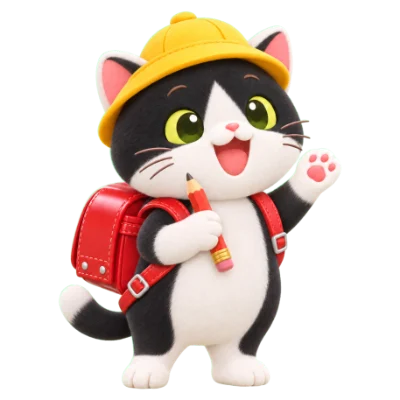
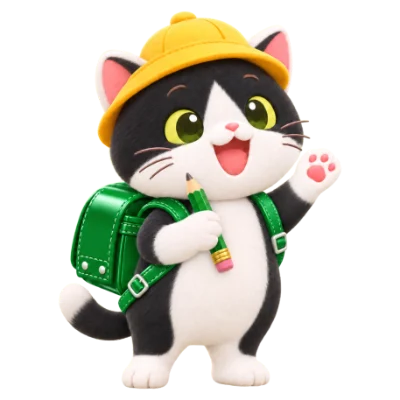
고양이 친구마다 란도셀 색과 표정·동작 4가지 (생각·정답·응원·축하)

diff --git a/sw.js b/sw.js
@@ -1,6 +1,6 @@
 // 오프라인용 서비스 워커: 앱 파일을 폰에 저장해 두고 인터넷 없이도 연다.
 // 인터넷이 될 때는 항상 새 파일을 받고, 그 사본을 저장해 둔다.
-const VERSION = 'v27'
+const VERSION = 'v28'
 const CACHE = `nihongo-${VERSION}`
 const FILES = [
   './',
@@ -37,6 +37,46 @@ const FILES = [
   './images/cat-maru.webp',
   './images/cat-sabi.webp',
   './images/cat-mofu.webp',
+  './images/cat-kuro-think.webp',
+  './images/cat-kuro-cheer.webp',
+  './images/cat-kuro-sad.webp',
+  './images/cat-kuro-party.webp',
+  './images/cat-shiro-think.webp',
+  './images/cat-shiro-cheer.webp',
+  './images/cat-shiro-sad.webp',
+  './images/cat-shiro-party.webp',
+  './images/cat-mikan-think.webp',
+  './images/cat-mikan-cheer.webp',
+  './images/cat-mikan-sad.webp',
+  './images/cat-mikan-party.webp',
+  './images/cat-moka-think.webp',
+  './images/cat-moka-cheer.webp',
+  './images/cat-moka-sad.webp',
+  './images/cat-moka-party.webp',
+  './images/cat-hachi-think.webp',
+  './images/cat-hachi-cheer.webp',
+  './images/cat-hachi-sad.webp',
+  './images/cat-hachi-party.webp',
+  './images/cat-gin-think.webp',
+  './images/cat-gin-cheer.webp',
+  './images/cat-gin-sad.webp',
+  './images/cat-gin-party.webp',
+  './images/cat-tora-think.webp',
+  './images/cat-tora-cheer.webp',
+  './images/cat-tora-sad.webp',
+  './images/cat-tora-party.webp',
+  './images/cat-maru-think.webp',
+  './images/cat-maru-cheer.webp',
+  './images/cat-maru-sad.webp',
+  './images/cat-maru-party.webp',
+  './images/cat-sabi-think.webp',
+  './images/cat-sabi-cheer.webp',
+  './images/cat-sabi-sad.webp',
+  './images/cat-sabi-party.webp',
+  './images/cat-mofu-think.webp',
+  './images/cat-mofu-cheer.webp',
+  './images/cat-mofu-sad.webp',
+  './images/cat-mofu-party.webp',
   './audio/bgm.mp3',
 ]
 

diff --git a/app.js b/app.js
@@ -215,12 +215,15 @@ const IMAGES = window.APP_IMAGES || {
   sad: 'images/mascot-sad.webp', party: 'images/mascot-party.webp',
 }
 // 고양이 친구들 (묶은 페이지에서는 APP_IMAGES에 이미 들어 있다)
-for (const id of ['kuro', 'shiro', 'mikan', 'moka', 'hachi', 'gin', 'tora', 'maru', 'sabi', 'mofu']) IMAGES['cat-' + id] = IMAGES['cat-' + id] || `images/cat-${id}.webp`
+for (const id of ['kuro', 'shiro', 'mikan', 'moka', 'hachi', 'gin', 'tora', 'maru', 'sabi', 'mofu']) {
+  IMAGES['cat-' + id] = IMAGES['cat-' + id] || `images/cat-${id}.webp`
+  for (const m of ['think', 'cheer', 'sad', 'party']) IMAGES[`cat-${id}-${m}`] = IMAGES[`cat-${id}-${m}`] || `images/cat-${id}-${m}.webp`
+}
 // 미케 그림 (포즈가 없으면 기본 모습)
 function mascot(mood = 'mascot', cls = 'mascot') {
-  // 단짝이 미케가 아니면 그 고양이가 나온다 (표정 그림은 미케만 있음)
+  // 단짝이 미케가 아니면 그 고양이가 나온다 (표정: think 생각, cheer 정답, sad 응원, party 축하)
   const b = typeof buddy === 'function' ? buddy() : { id: 'mike', name: '미케' }
-  const src = b.id === 'mike' ? (IMAGES[mood] || IMAGES.mascot) : catImage(b)
+  const src = b.id === 'mike' ? (IMAGES[mood] || IMAGES.mascot) : (IMAGES[`cat-${b.id}-${mood}`] || catImage(b))
   return src ? `<img class="${cls}" src="${src}" alt="${b.name}" width="320" height="320">` : ''
 }
 const CHEERS = ['정답이에요', '잘했어요', '완벽해요', '좋아요, 그대로 가요', '역시 내 친구']
